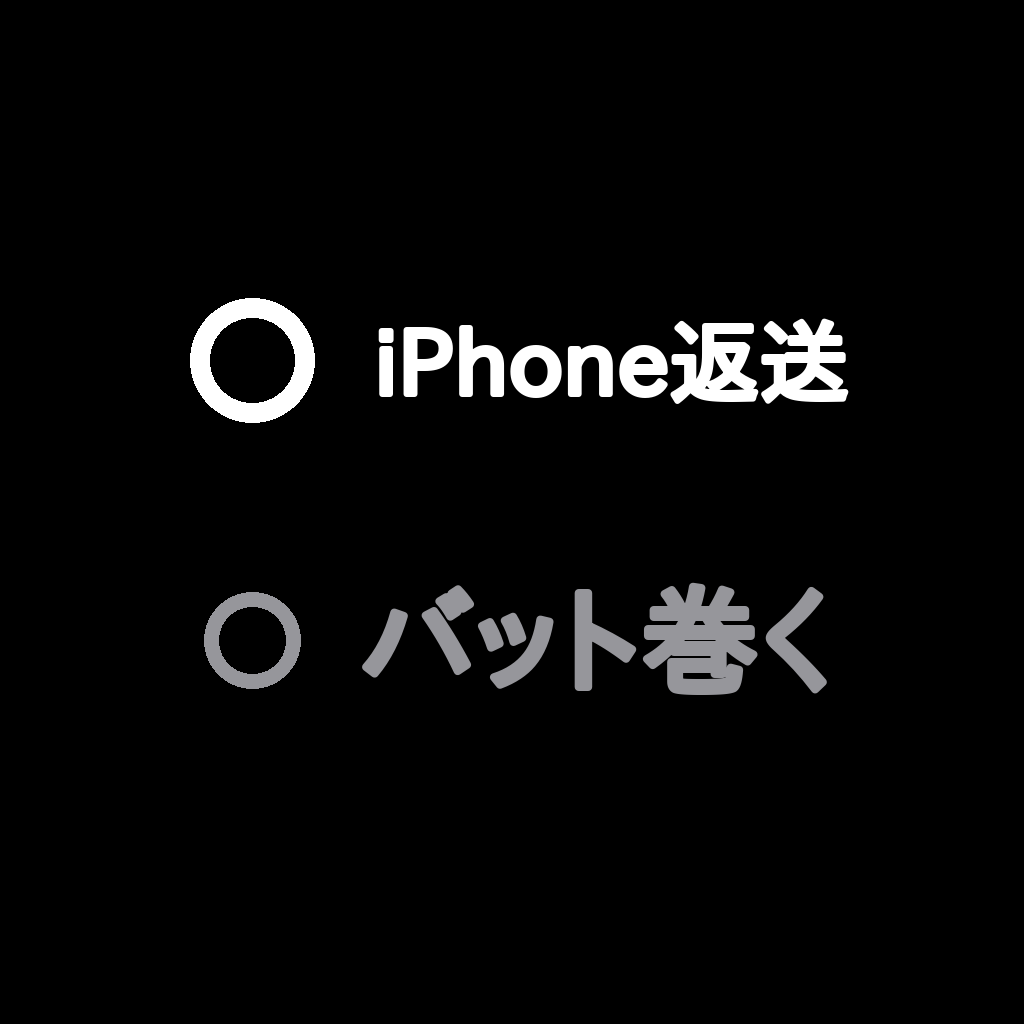
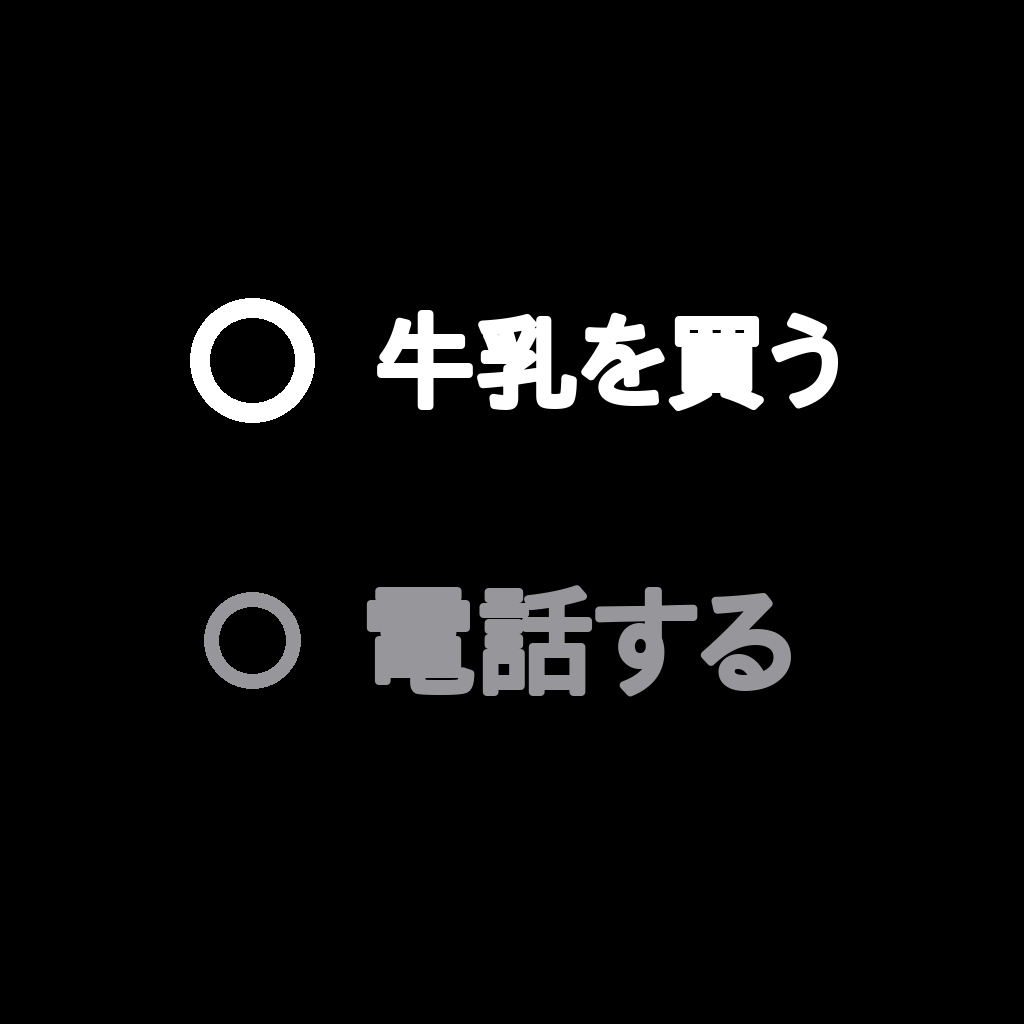
盤面タスク: アイコンを文字版に切り替え、文言を一般的なタスクに
Claude-Session: https://claude.ai/code/session_01LtCZT7mnmAya1MriyLPVKG

Changed region(s): [[0.3438, 0.5625, 0.8125, 0.6875], [0.3438, 0.2812, 0.8438, 0.4062]]

diff --git a/Tools/make-icon.py b/Tools/make-icon.py
@@ -1,8 +1,8 @@
 #!/usr/bin/env python3
 """アプリアイコンを生成する。黒背景に、文字盤のコンプリケーションと同じ「2行のタスク」。
 
-  python3 Tools/make-icon.py            bars 版（円＋バー。小さくても崩れない）
-  python3 Tools/make-icon.py text       text 版（実際の文言。文字盤の見た目そのまま）
+  python3 Tools/make-icon.py            text 版（既定。文字盤の見た目そのまま）
+  python3 Tools/make-icon.py bars       bars 版（円＋バー。小さくても崩れない）
 
 出力先: iOS/Assets.xcassets と Watch/Assets.xcassets の AppIcon（1024x1024）
 """
@@ -33,7 +33,7 @@ def render(variant):
         circle(d, left + 62, cy, r, color, int(20 * scale))
         x0 = left + 62 + r + 60
         if variant == "text":
-            label = "iPhone返送" if color == WHITE else "バット巻く"
+            label = "牛乳を買う" if color == WHITE else "電話する"
             # 右端に収まるまで縮める
             size = int(150 * scale)
             while size > 40:
@@ -60,7 +60,7 @@ def write_asset(img, xcassets_dir, platform):
               open(os.path.join(xcassets_dir, "Contents.json"), "w"), indent=2)
 
 if __name__ == "__main__":
-    variant = sys.argv[1] if len(sys.argv) > 1 else "bars"
+    variant = sys.argv[1] if len(sys.argv) > 1 else "text"
     img = render(variant)
     write_asset(img, os.path.join(ROOT, "iOS", "Assets.xcassets"), "ios")
     write_asset(img, os.path.join(ROOT, "Watch", "Assets.xcassets"), "watchos")
